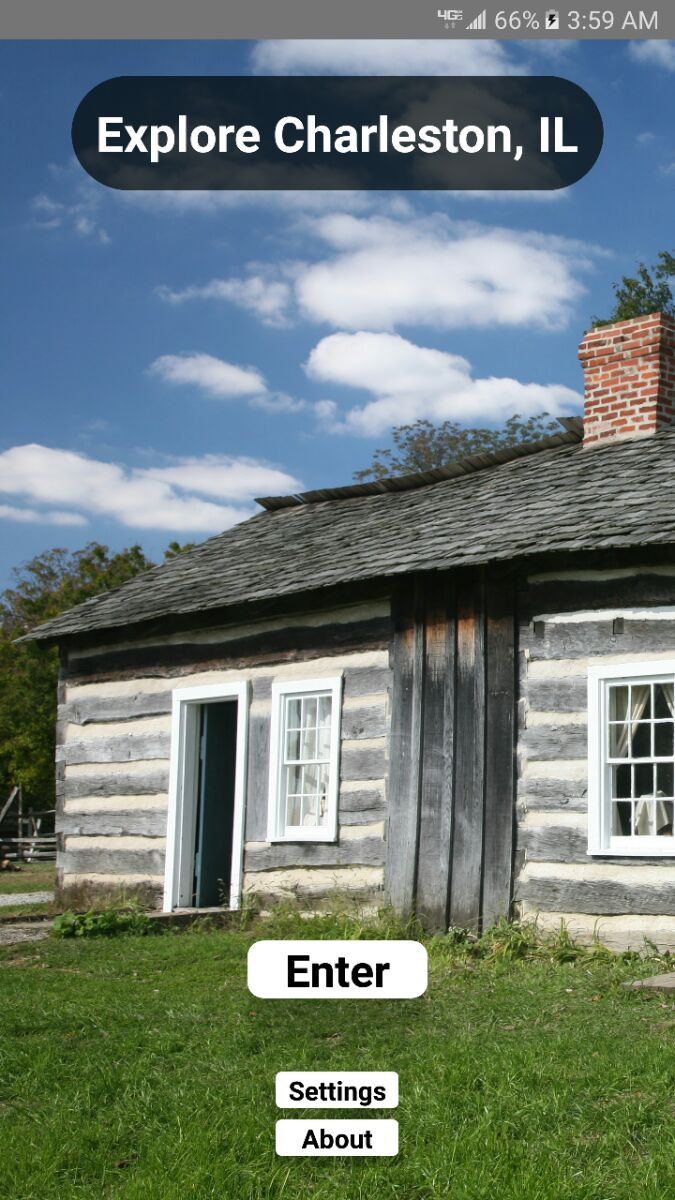
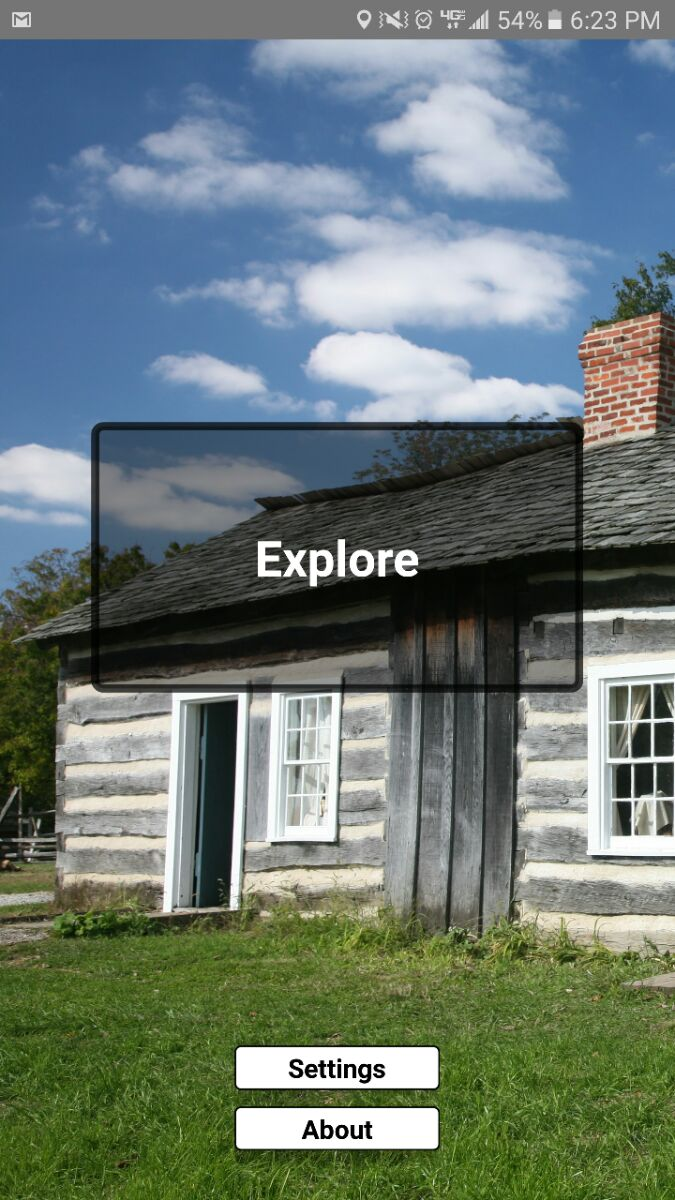
Screenshots/ Promises

diff --git a/CharlestonMapped/app/components/Home/Home.js b/CharlestonMapped/app/components/Home/Home.js
@@ -14,6 +14,7 @@ import {
   getMarkerCoords,
   getAllMyKeys,
   clearAllKeys,
+  checkForKeys,
   getTestObj,
   getMultiObj
 } from '../../API/Api';
@@ -30,7 +31,6 @@ export default class Home extends Component {
       }
     })
   }
-
   render() {
     const hitSlop = {
       top: 5,
@@ -46,22 +46,21 @@ export default class Home extends Component {
     }
     return(
       <Image source={require('../../Assets/lincoln.jpg')} style={styles.backgroundImage}>
-        <View style={styles.titleContainer}>
-          <Text style={styles.title}>Explore Charleston, IL</Text>
+        <View style={styles.enterButtonContainer}>
+          <TouchableHighlight
+            hitSlop = {enterHitSlop}
+            activeOpacity={0.4}
+            style={styles.enterButton}
+            onPress={ () => this._navigate() } >
+              <Text style={styles.enterButtonText}>Explore</Text>
+          </TouchableHighlight>
         </View>
         <View style={styles.buttonContainer}>
-           <TouchableHighlight
-             hitSlop = {enterHitSlop}
-             activeOpacity={0.4}
-             style={styles.enterButton}
-             onPress={ () => this._navigate() } >
-               <Text style={styles.enterButtonText}>Enter</Text>
-           </TouchableHighlight>
            <TouchableHighlight
              hitSlop = {hitSlop}
              activeOpacity={0.4}
              style={styles.button}
-             onPress={ () =>  getTestObj()} >
+             onPress={ () =>  clearAllKeys()} >
                <Text style={styles.buttonText}>Settings</Text>
            </TouchableHighlight>
            <TouchableHighlight
@@ -86,53 +85,40 @@ const styles = StyleSheet.create({
     alignItems: 'center',
     justifyContent: 'center',
   },
-  titleContainer: {
+  enterButtonContainer: {
     flex: 2,
     alignItems: 'center',
-    justifyContent: 'center',
+    marginTop: 80,
+    justifyContent: 'flex-start',
     backgroundColor: 'transparent',
   },
-  title: {
-    //width: 300,
-    //height: 35,
-    padding: 15,
-    fontSize: 30,
-    color: 'white',
-    fontWeight: 'bold',
-    textAlign: 'center',
-    borderRadius: 100 / 1,
-    justifyContent: 'center',
-    backgroundColor: 'rgba(0, 5, 5, 0.7)',
-  },
   buttonContainer: {
-    flex: 10,
+    flex: 1,
     marginBottom: 20,
     alignItems: 'center',
     justifyContent: 'flex-end',
     backgroundColor: 'transparent',
   },
   enterButton: {
-    width: 110,
-    height: 35,
-    opacity: 1,
-    elevation: 20,
-    marginBottom: 45,
-    //alignSelf: 'flex-start',
-    alignItems: 'center',
-    borderRadius: 100 / 10,
-    backgroundColor: 'white',
-    justifyContent: 'space-around',
-    shadowRadius: 10,
-    shadowOpacity: .5,
-    shadowColor: 'black',
-    shadowOffset: {width: 0, height: 5},
+    width: 300,
+    height: 165,
+    //padding: 40,
+    //elevation: 15,
+    borderWidth: 5,
+    marginBottom: 60,
+    borderStyle: 'solid',
+    borderColor: 'rgba(0, 0, 0, 0.7)',
+    borderRadius: 100 / 20,
+    justifyContent: 'center',
+    backgroundColor: 'rgba(0, 0, 0, 0.4)',
   },
   button: {
-    width: 75,
-    height: 22,
+    width: 125,
+    height: 27,
     opacity: 1,
-    elevation: 10,
-    marginBottom: 7,
+    elevation: 5,
+    borderWidth: 1,
+    marginBottom: 10,
     alignItems: 'center',
     borderRadius: 100 / 30,
     backgroundColor: 'white',
@@ -144,8 +130,9 @@ const styles = StyleSheet.create({
     //padding: 60,
   },
   enterButtonText: {
-    fontSize: 27,
-    color: 'black',
+    padding: 15,
+    fontSize: 30,
+    color: 'white',
     fontWeight: 'bold',
     textAlign: 'center',
   },

diff --git a/CharlestonMapped/app/API/Api.js b/CharlestonMapped/app/API/Api.js
@@ -1,6 +1,24 @@
 import React, { Component } from 'react';
 import { AsyncStorage } from 'react-native';
 
+// To prevent memory leaks
+const makeCancelable = (promise) => {
+  let hasCanceled_ = false;
+  const wrappedPromise = new Promise((resolve, reject) => {
+    promise.then((val) =>
+      hasCanceled_ ? reject({isCanceled: true}) : resolve(val)
+    );
+    promise.catch((error) =>
+      hasCanceled_ ? reject({isCanceled: true}) : reject(error)
+    );
+  });
+  return {
+    promise: wrappedPromise,
+    cancel() {
+      hasCanceled_ = true;
+    },
+  };
+};
 var makeInitialRequest = function(response){
   const initialURL = 'EXCLUDED';
   var myRequest = new Request(initialURL, {method: 'GET', headers:{'X-Requested-With':'XMLHttpRequest'}});
@@ -29,8 +47,8 @@ var makeInitialRequest = function(response){
             style: response[key].style_primary
           }
           AsyncStorage.setItem(key, JSON.stringify(thisSite));
-          console.log(key);
-          console.log(thisSite);
+          //console.log(key);
+          //console.log(thisSite);
         }
       }
     })
@@ -41,6 +59,30 @@ var makeInitialRequest = function(response){
 var getAllMyKeys = new Promise(function(resolve, reject){
   AsyncStorage.getAllKeys().then((keys) => {
     resolve(keys);
+  });
+});
+
+var checkForKeys = new Promise(function(resolve, reject){
+  getAllMyKeys.then((keys) => {
+    console.log('keys.length: ' + keys.length);
+    if(keys.length != 0){
+      console.log(keys);
+      //resolve(keys);
+    }else{
+      makeInitialRequest();
+      console.log('madeInitialRequest');
+      getAllMyKeys.then((keys) => {
+        console.log('keys.length: ' + keys.length);
+      if(keys.length != 0){
+        console.log(keys);
+        //resolve(keys);
+      }else{
+        console.log('Error: Unable to load sites. Is internet access enabled?')
+        console.log('empty');
+      }
+      });
+      //console.log('empty');
+    }
   });
 });
 var getMarkerCoords = function(){
@@ -98,6 +140,7 @@ export {
   getMarkerCoords,
   getAllMyKeys,
   clearAllKeys,
+  checkForKeys,
   getTestObj,
   getMultiObj
 };

diff --git a/CharlestonMapped/app/appRouter.js b/CharlestonMapped/app/appRouter.js
@@ -12,6 +12,7 @@ import {
   getMarkerCoords,
   getAllMyKeys,
   clearAllKeys,
+  checkForKeys,
   getMultiObj,
   getTestObj
 } from './API/Api';

diff --git a/README.md b/README.md
@@ -2,9 +2,20 @@
 An interactive mobile app created with the React Native framework
 <br />
 <hr>
+Home Screen:
 <img src="https://github.com/Awpatterson217/Charleston-IL-Historic-Sites/blob/master/CharlestonMapped/screenshots/home.jpg" width="300">
 <hr>
+Home Screen Rotated:
+<img src="https://github.com/Awpatterson217/Charleston-IL-Historic-Sites/blob/master/CharlestonMapped/screenshots/home_sideways.jpg" width="300">
+<hr>
+Map: 
 <img src="https://github.com/Awpatterson217/Charleston-IL-Historic-Sites/blob/master/CharlestonMapped/screenshots/map.jpg" width="300">
+<hr>
+<h5>Credits:</h5> 
+<pre><b>Uses data found on RuskinARC:</b>                                          https://www.ruskinarc.com/charleston-historic-preservati/charleston-historic-preservati/</pre> 
+<pre><b>In collaboration with the Charleston Historic Preservation Commission:</b> http://www.charlestonillinoishpc.org/</pre> 
+<pre><b>Background Image Location:</b>                                             https://commons.wikimedia.org/wiki/File:Lincoln_Log_Cabin_2.jpg</pre> 
+<pre><b>Background Image Author:</b>                                               Daniel Schwen, https://commons.wikimedia.org/wiki/User:Dschwen</pre>
 <hr>
 <h5>Libraries used:</h5>
 
